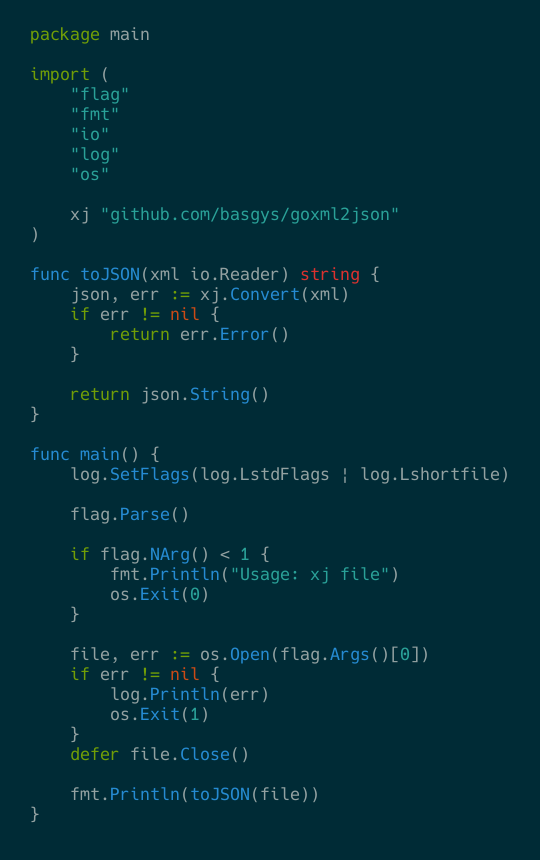
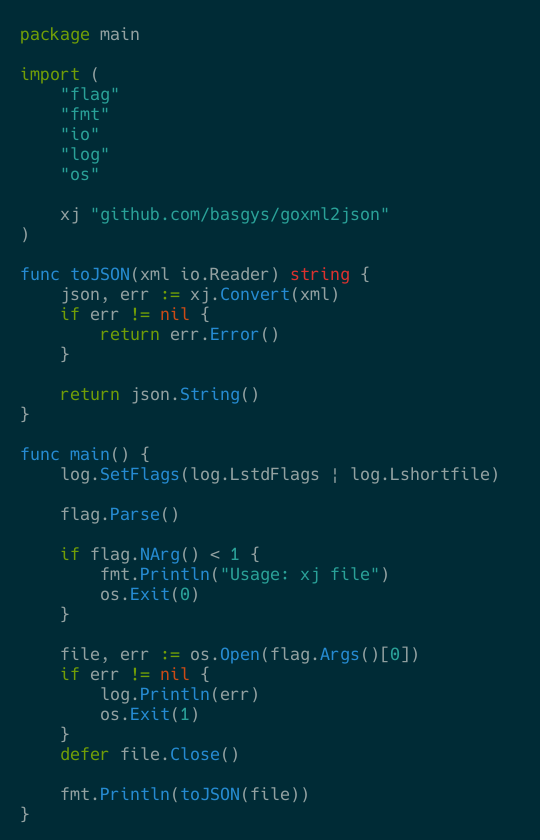
adjustment height

diff --git a/formatter.go b/formatter.go
@@ -53,9 +53,6 @@ func (p *pngFormat) Format(w io.Writer, style *chroma.Style, iterator chroma.Ite
 		Face: face,
 	}
 
-	// width, height padding
-	padding := 2
-
 	// draw line
 	if p.printLine {
 		i := 1
@@ -65,9 +62,9 @@ func (p *pngFormat) Format(w io.Writer, style *chroma.Style, iterator chroma.Ite
 			dr.Src = image.NewUniform(color.Black)
 		}
 
-		lx := fixed.Int26_6(padding)
+		lx := fixed.Int26_6(2)
 
-		lm := p.height/p.fontSize - 2 // remove font size
+		lm := p.height/p.fontSize - 1 // remove font size
 		format := fmt.Sprintf("%%%dd", p.lineWidth)
 		for i < lm {
 			dr.Dot.X = fixed.I(10) * lx
@@ -80,7 +77,7 @@ func (p *pngFormat) Format(w io.Writer, style *chroma.Style, iterator chroma.Ite
 	// draw source code
 	ox := fixed.Int26_6(p.lineWidth + 3)
 	x := ox
-	y := fixed.Int26_6(padding)
+	y := fixed.Int26_6(2)
 
 	for _, t := range iterator.Tokens() {
 		s := style.Get(t.Type)

diff --git a/main.go b/main.go
@@ -194,7 +194,7 @@ func getSize(printLine bool, s string, fontSize int) (w int, h int, lw int) {
 		}
 		h++
 	}
-	h = h + 2
+	h = h + 1
 
 	if printLine {
 		lw = len(strconv.Itoa(len(lines)))
